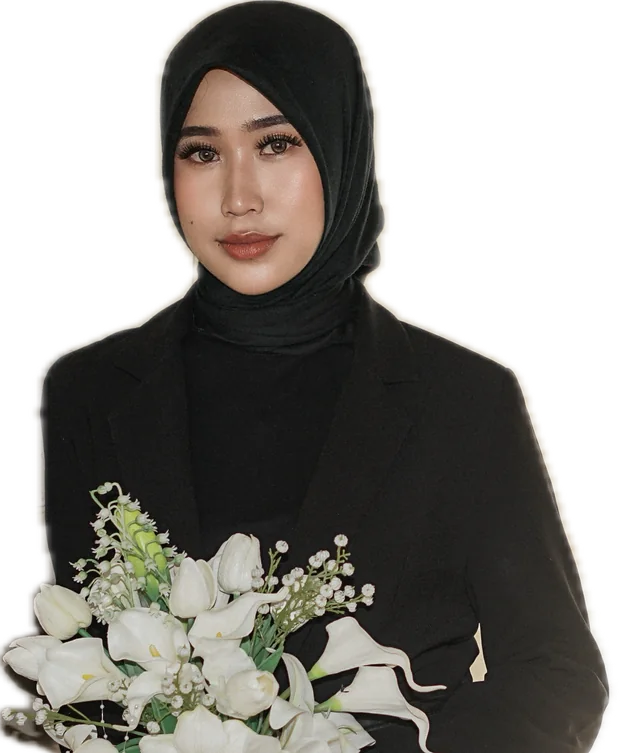
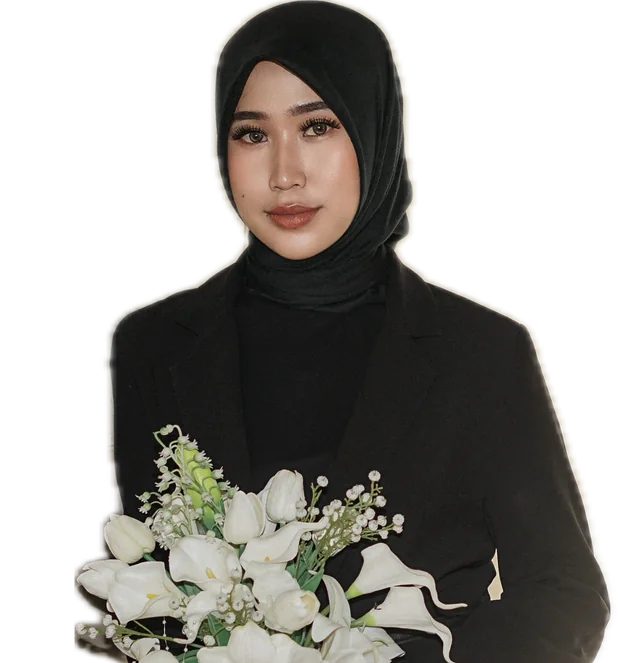
Beludru: hapus tulisan terima kasih di kado, foto Sakha di tengah gunungan

diff --git a/beludru.html b/beludru.html
@@ -5329,17 +5329,80 @@
       width: calc(var(--w) * .36);
       z-index: 6
     }
-      #panggung .pg-date{text-transform:none!important;letter-spacing:.03em!important;font-size:min(4.6vw,2.3svh,1.18rem)!important}
-    #f-nama.terisi{background:rgba(243,237,226,.08)!important;border-color:rgba(240,214,148,.45)!important;color:#f6e3ae!important;font-weight:600;cursor:default}
-    .hal-ucapan{display:flex;align-items:center;justify-content:center;gap:16px;margin-top:16px}
-    .hal-ucapan[hidden]{display:none}
-    .hu-k{width:40px;height:40px;border-radius:50%;border:1px solid #f0d694;background:transparent;color:#f6e3ae;font:400 1.6rem/1 var(--f-serif);padding:0 0 4px;cursor:pointer;transition:background .2s,opacity .2s}
-    .hu-k:hover:not(:disabled){background:rgba(240,214,148,.12)}
-    .hu-k:disabled{opacity:.3;cursor:default}
-    .hu-no{min-width:56px;text-align:center;letter-spacing:.12em;color:rgba(243,237,226,.85);font-size:.95rem}
-    .wishes .wish{animation:huMasuk .45s ease both}
-    @keyframes huMasuk{from{opacity:0;transform:translateY(8px)}}
-    @media (prefers-reduced-motion:reduce){.wishes .wish{animation:none}}
+
+    #panggung .pg-date {
+      text-transform: none !important;
+      letter-spacing: .03em !important;
+      font-size: min(4.6vw, 2.3svh, 1.18rem) !important
+    }
+
+    #f-nama.terisi {
+      background: rgba(243, 237, 226, .08) !important;
+      border-color: rgba(240, 214, 148, .45) !important;
+      color: #f6e3ae !important;
+      font-weight: 600;
+      cursor: default
+    }
+
+    .hal-ucapan {
+      display: flex;
+      align-items: center;
+      justify-content: center;
+      gap: 16px;
+      margin-top: 16px
+    }
+
+    .hal-ucapan[hidden] {
+      display: none
+    }
+
+    .hu-k {
+      width: 40px;
+      height: 40px;
+      border-radius: 50%;
+      border: 1px solid #f0d694;
+      background: transparent;
+      color: #f6e3ae;
+      font: 400 1.6rem/1 var(--f-serif);
+      padding: 0 0 4px;
+      cursor: pointer;
+      transition: background .2s, opacity .2s
+    }
+
+    .hu-k:hover:not(:disabled) {
+      background: rgba(240, 214, 148, .12)
+    }
+
+    .hu-k:disabled {
+      opacity: .3;
+      cursor: default
+    }
+
+    .hu-no {
+      min-width: 56px;
+      text-align: center;
+      letter-spacing: .12em;
+      color: rgba(243, 237, 226, .85);
+      font-size: .95rem
+    }
+
+    .wishes .wish {
+      animation: huMasuk .45s ease both
+    }
+
+    @keyframes huMasuk {
+      from {
+        opacity: 0;
+        transform: translateY(8px)
+      }
+    }
+
+    @media (prefers-reduced-motion:reduce) {
+      .wishes .wish {
+        animation: none
+      }
+    }
+      .mp-foto[src*="wanita"]{width:81%!important}
 </style>
 </head>
 
@@ -5361,9 +5424,9 @@
             <div class="doily" id="doily">
               <div data-svg="doily"></div>
               <div class="q">
-                <b>Dua Hati, Satu Ikatan</b>
-                <span>Dua keluarga, dua adat, dan satu doa yang sama: agar cinta ini tumbuh dalam kasih, saling menjaga,
-                  dan menjadi berkah bagi semua yang ada di sekitarnya.</span>
+                <b>One Love, Forever</b>
+                <span>With grateful hearts and the blessings of our families, we celebrate the beginning of a lifetime
+                  together, built on love, trust, and unwavering devotion.</span>
                 <small>SAKHA &amp; IQBAL</small>
               </div>
               <div class="tassel" data-svg="tassel"></div>
@@ -5609,8 +5672,8 @@
       <!-- ===== HADIAH ===== -->
       <section class="velvet" id="hadiah" data-sparks="3" style="padding-top:30px">
         <h2 class="title rv">Wedding Gift</h2>
-        <p class="lead rv">Doa restu dan kehadiran Anda merupakan karunia yang sangat berarti bagi kami. Namun, jika
-          memberi adalah ungkapan tanda kasih, Anda dapat memberi melalui kado di bawah ini.</p>
+        <p class="lead rv">Your prayers and presence are the best gift. However, if you want to give a gift weprovide a
+          digital envelope to make it easier for you. Thank You</p>
         <button class="kado" id="kado" type="button" aria-expanded="false" aria-controls="isiKado"
           aria-label="Buka kado">
           <span class="kd-sinar" aria-hidden="true"></span>
@@ -6194,7 +6257,7 @@
         if (!reduce) setTimeout(function () { var b = kado.getBoundingClientRect().top, e = isi.children[1], lebih = b + e.offsetTop + e.offsetHeight - kado.offsetTop - innerHeight + 20; if (lebih > 0 && b > 0) scrollBy({ top: Math.min(lebih, Math.max(0, b - 8)), behavior: "smooth" }); }, 1200);
       }
       function kadoMain() {
-        $("#kadoCta").textContent = "Terima kasih atas tanda kasihnya";
+        $("#kadoCta").hidden = true;
         var n = 0; for (var i = 0; i < KN; i++) if (kf[i]) n++;
         if (reduce || !kf[0] || n < KN * .6) { kadoBuka(); return; }
         var t0 = 0, akhir = -1, lama = 1350, meledak = false;
